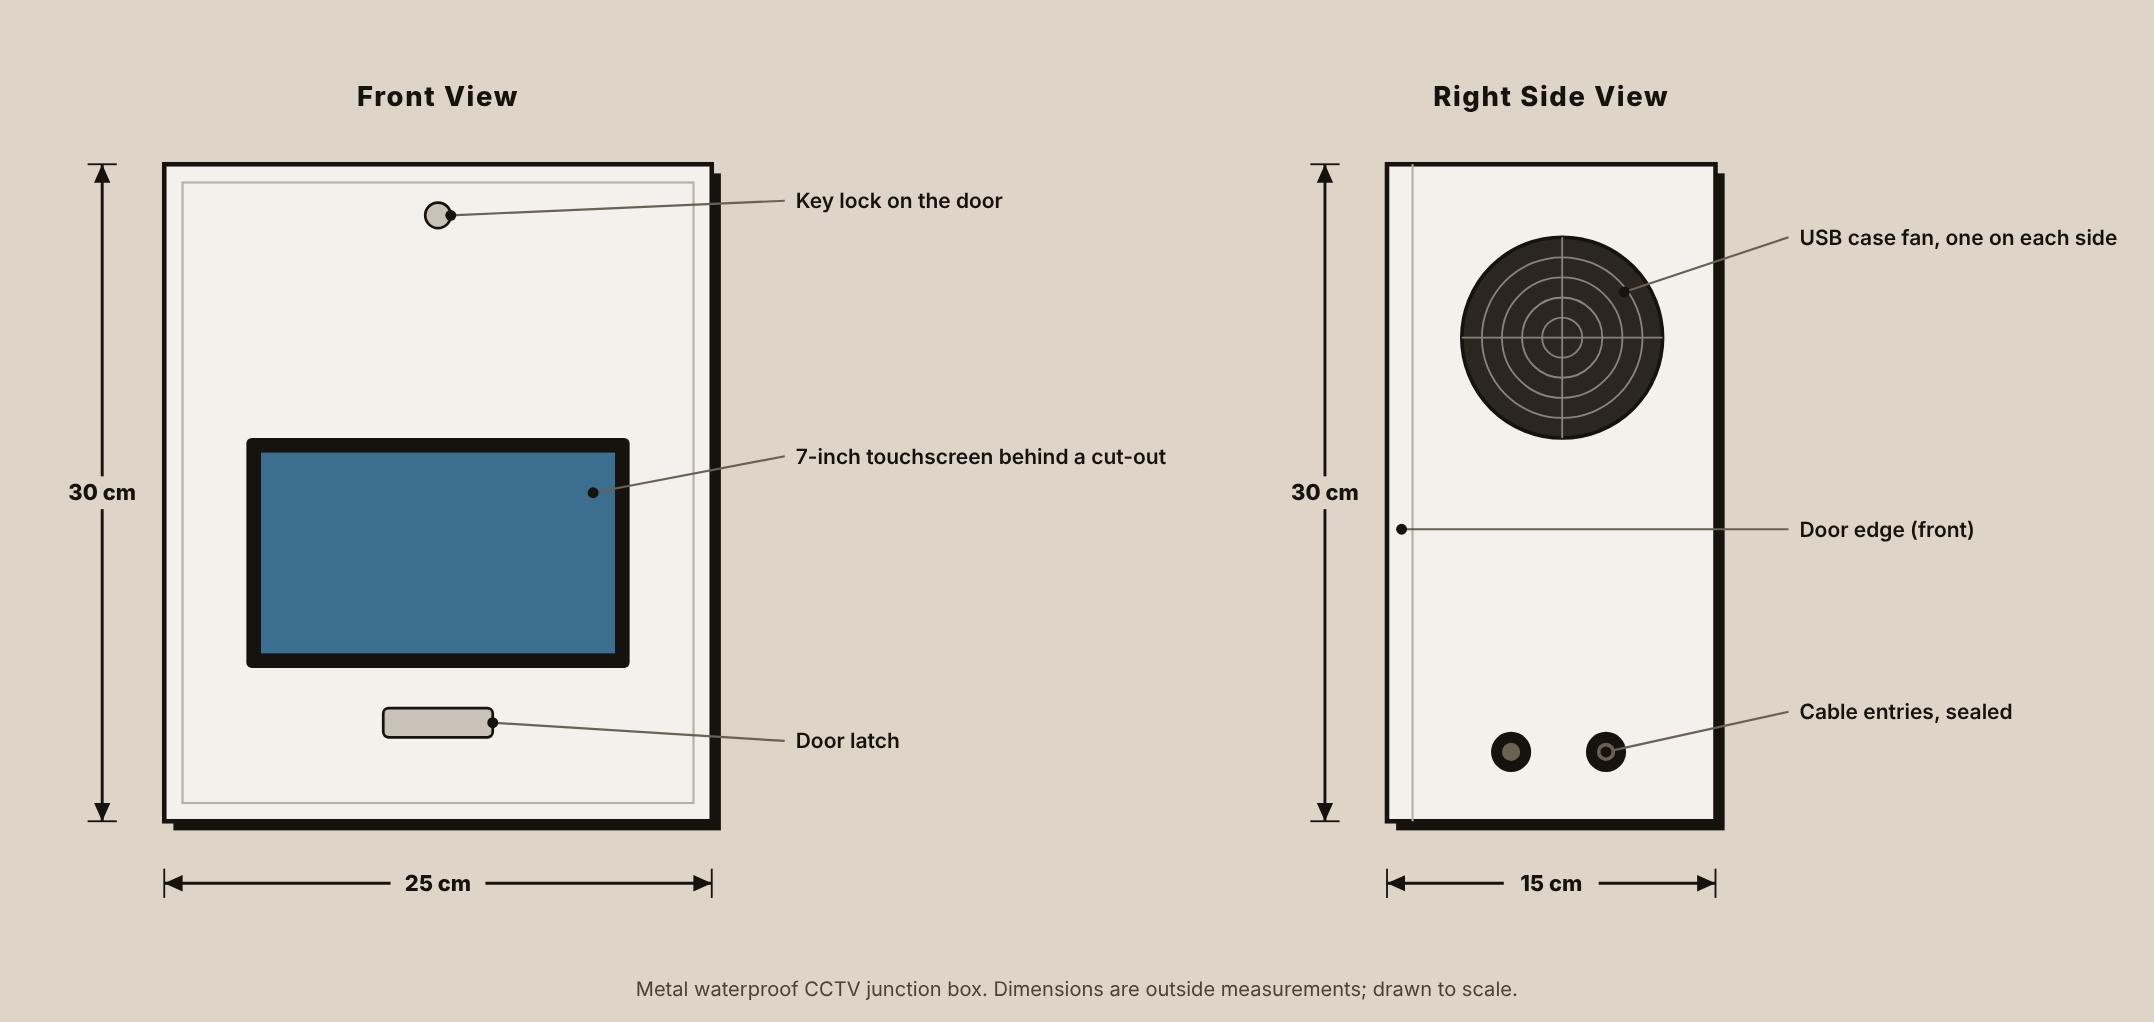
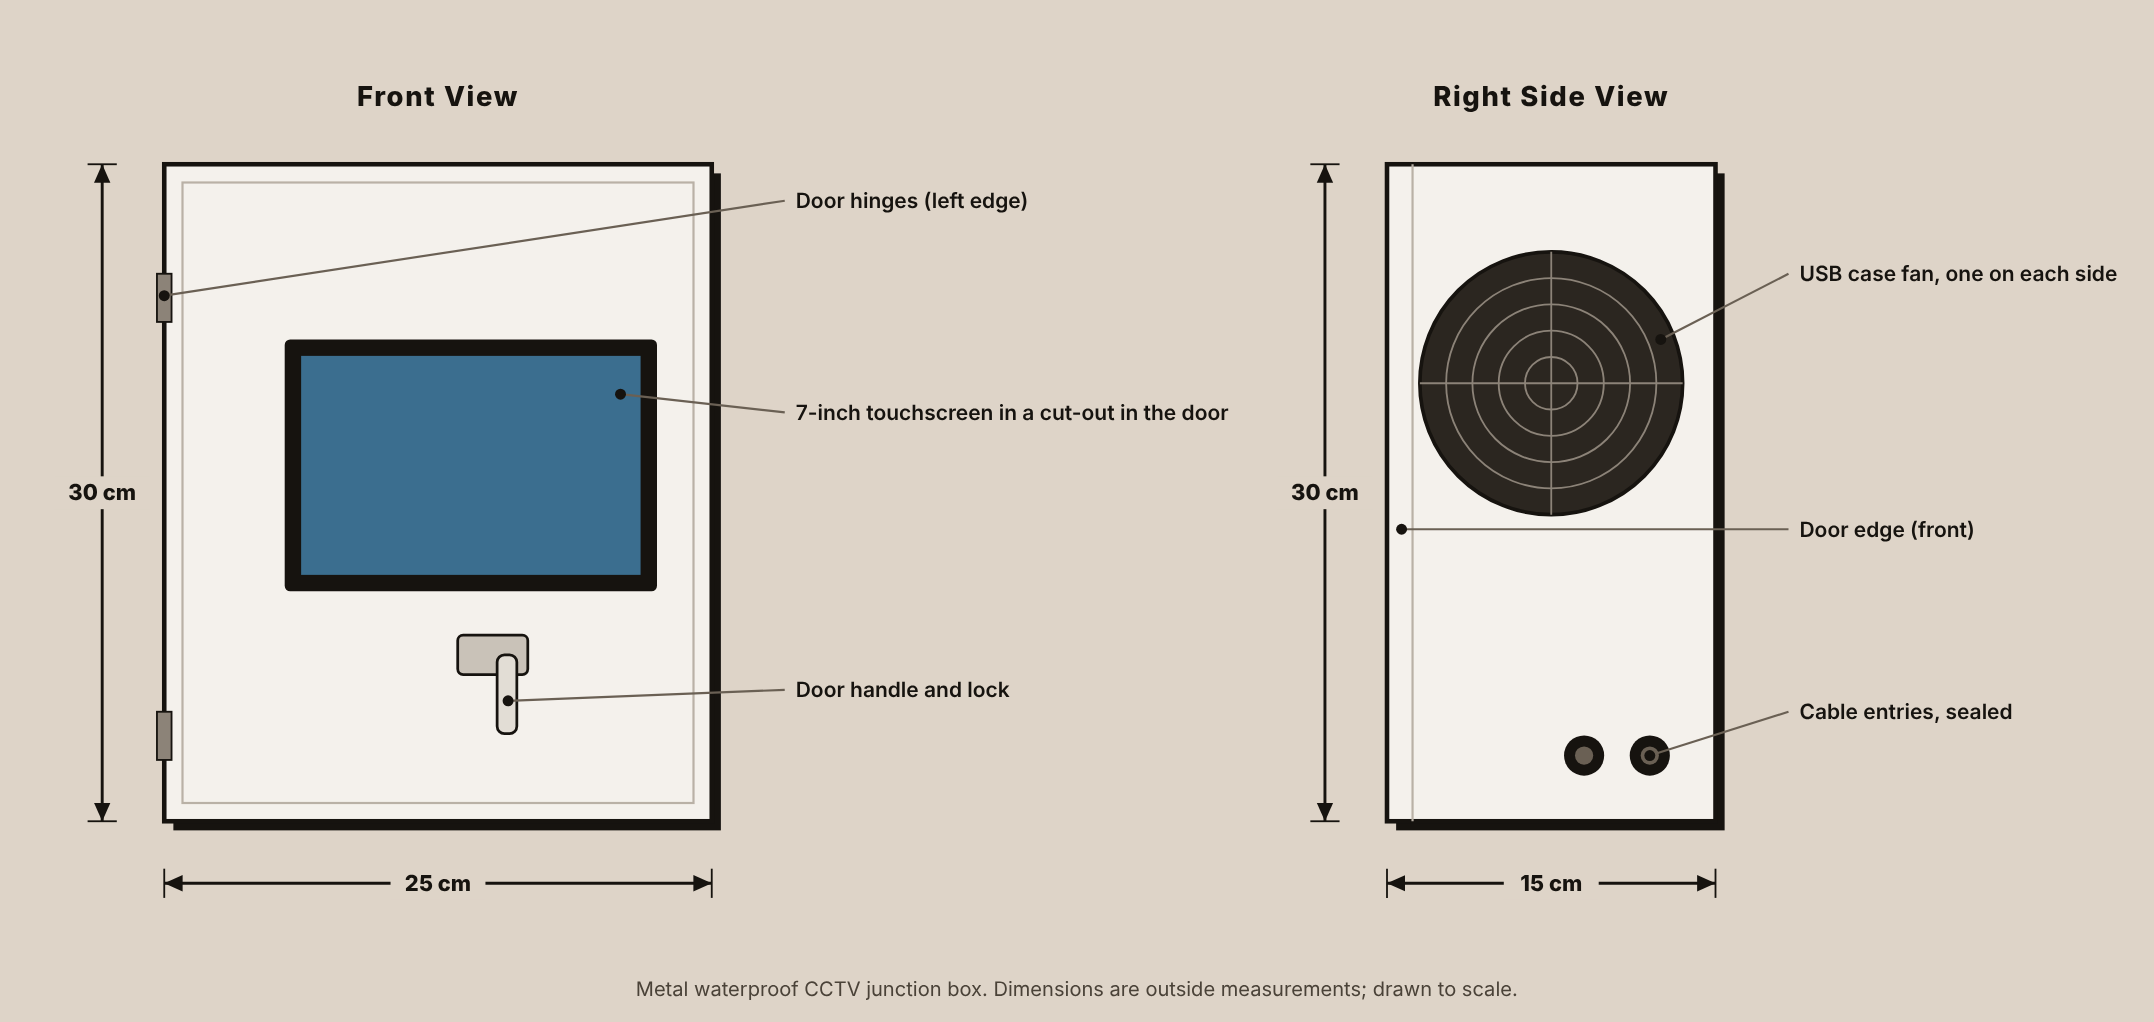
v19 build: casing photo, corrected enclosure drawing, straightened permit pages

diff --git a/Documents/Figures/GarbageGuard_Enclosure_Drawing.html b/Documents/Figures/GarbageGuard_Enclosure_Drawing.html
@@ -12,42 +12,44 @@
 <rect x="95" y="95" width="300" height="360" fill="#16130F"/>
 <rect x="90" y="90" width="300" height="360" fill="#F4F1EC" stroke="#16130F" stroke-width="2.5"/>
 <rect x="100" y="100" width="280" height="340" fill="none" stroke="#B9B1A6" stroke-width="1.2"/>
-<rect x="135.0" y="240" width="210.0" height="126.0" rx="3" fill="#16130F"/><rect x="143.0" y="248" width="194.0" height="110.0" fill="#3B6E8F"/>
-<rect x="210.0" y="388.0" width="60" height="16" rx="3" fill="#C9C2B8" stroke="#16130F" stroke-width="1.5"/>
-<circle cx="240.0" cy="118" r="7" fill="#C9C2B8" stroke="#16130F" stroke-width="1.5"/>
+<rect x="156.0" y="186" width="204" height="138.0" rx="3" fill="#16130F"/><rect x="165.0" y="195" width="186" height="120.0" fill="#3B6E8F"/>
+<rect x="250.8" y="348.0" width="38.400000000000006" height="21.6" rx="3" fill="#C9C2B8" stroke="#16130F" stroke-width="1.5"/>
+<rect x="272.4" y="358.8" width="10.8" height="43.2" rx="4" fill="#E2DDD5" stroke="#16130F" stroke-width="1.5"/>
+<rect x="86" y="150" width="8" height="26.400000000000002" fill="#8C8378" stroke="#16130F" stroke-width="1"/>
+<rect x="86" y="390" width="8" height="26.400000000000002" fill="#8C8378" stroke="#16130F" stroke-width="1"/>
 <line x1="90" y1="484" x2="390" y2="484" stroke="#16130F" stroke-width="1.6" marker-start="url(#a)" marker-end="url(#a)"/>
 <line x1="90" y1="476" x2="90" y2="492" stroke="#16130F" stroke-width="1"/><line x1="390" y1="476" x2="390" y2="492" stroke="#16130F" stroke-width="1"/>
 <rect x="214.0" y="475" width="52" height="18" fill="#DED4C8"/><text x="240.0" y="488" class="dm">25 cm</text>
 <line x1="56" y1="90" x2="56" y2="450" stroke="#16130F" stroke-width="1.6" marker-start="url(#a)" marker-end="url(#a)"/>
 <line x1="48" y1="90" x2="64" y2="90" stroke="#16130F" stroke-width="1"/><line x1="48" y1="450" x2="64" y2="450" stroke="#16130F" stroke-width="1"/>
 <rect x="30" y="261.0" width="52" height="18" fill="#DED4C8"/><text x="56" y="274.0" class="dm">30 cm</text>
-<line x1="247.0" y1="118" x2="430" y2="110" stroke="#6A6054" stroke-width="1.2"/><circle cx="247.0" cy="118" r="3" fill="#16130F"/>
-<text x="436" y="114" class="co" text-anchor="start">Key lock on the door</text>
-<line x1="325.0" y1="270" x2="430" y2="250" stroke="#6A6054" stroke-width="1.2"/><circle cx="325.0" cy="270" r="3" fill="#16130F"/>
-<text x="436" y="254" class="co" text-anchor="start">7-inch touchscreen behind a cut-out</text>
-<line x1="270.0" y1="396.0" x2="430" y2="406.0" stroke="#6A6054" stroke-width="1.2"/><circle cx="270.0" cy="396.0" r="3" fill="#16130F"/>
-<text x="436" y="410.0" class="co" text-anchor="start">Door latch</text>
+<line x1="90" y1="162" x2="430" y2="110" stroke="#6A6054" stroke-width="1.2"/><circle cx="90" cy="162" r="3" fill="#16130F"/>
+<text x="436" y="114" class="co" text-anchor="start">Door hinges (left edge)</text>
+<line x1="340.0" y1="216" x2="430" y2="226" stroke="#6A6054" stroke-width="1.2"/><circle cx="340.0" cy="216" r="3" fill="#16130F"/>
+<text x="436" y="230" class="co" text-anchor="start">7-inch touchscreen in a cut-out in the door</text>
+<line x1="278.4" y1="384.0" x2="430" y2="378.0" stroke="#6A6054" stroke-width="1.2"/><circle cx="278.4" cy="384.0" r="3" fill="#16130F"/>
+<text x="436" y="382.0" class="co" text-anchor="start">Door handle and lock</text>
 <text x="850.0" y="58" class="vt">Right Side View</text>
 <rect x="765" y="95" width="180" height="360" fill="#16130F"/>
 <rect x="760" y="90" width="180" height="360" fill="#F4F1EC" stroke="#16130F" stroke-width="2.5"/>
 <line x1="774" y1="90" x2="774" y2="450" stroke="#B9B1A6" stroke-width="1.2"/>
-<circle cx="856.0" cy="185" r="55" fill="#2B2620" stroke="#16130F" stroke-width="2"/>
-<circle cx="856.0" cy="185" r="11.0" fill="none" stroke="#8C8378" stroke-width="1"/>
-<circle cx="856.0" cy="185" r="22.0" fill="none" stroke="#8C8378" stroke-width="1"/>
-<circle cx="856.0" cy="185" r="33.0" fill="none" stroke="#8C8378" stroke-width="1"/>
-<circle cx="856.0" cy="185" r="44.0" fill="none" stroke="#8C8378" stroke-width="1"/>
-<line x1="801.0" y1="185" x2="911.0" y2="185" stroke="#8C8378"/><line x1="856.0" y1="130" x2="856.0" y2="240" stroke="#8C8378"/>
-<circle cx="828.0" cy="412" r="11" fill="#16130F"/><circle cx="828.0" cy="412" r="5" fill="#6A6054"/>
-<circle cx="880.0" cy="412" r="11" fill="#16130F"/><circle cx="880.0" cy="412" r="5" fill="#6A6054"/>
+<circle cx="850.0" cy="210" r="72" fill="#2B2620" stroke="#16130F" stroke-width="2"/>
+<circle cx="850.0" cy="210" r="14.4" fill="none" stroke="#8C8378" stroke-width="1"/>
+<circle cx="850.0" cy="210" r="28.8" fill="none" stroke="#8C8378" stroke-width="1"/>
+<circle cx="850.0" cy="210" r="43.2" fill="none" stroke="#8C8378" stroke-width="1"/>
+<circle cx="850.0" cy="210" r="57.6" fill="none" stroke="#8C8378" stroke-width="1"/>
+<line x1="778.0" y1="210" x2="922.0" y2="210" stroke="#8C8378"/><line x1="850.0" y1="138" x2="850.0" y2="282" stroke="#8C8378"/>
+<circle cx="868" cy="414" r="11" fill="#16130F"/><circle cx="868" cy="414" r="5" fill="#6A6054"/>
+<circle cx="904" cy="414" r="11" fill="#16130F"/><circle cx="904" cy="414" r="5" fill="#6A6054"/>
 <line x1="760" y1="484" x2="940" y2="484" stroke="#16130F" stroke-width="1.6" marker-start="url(#a)" marker-end="url(#a)"/>
 <line x1="760" y1="476" x2="760" y2="492" stroke="#16130F" stroke-width="1"/><line x1="940" y1="476" x2="940" y2="492" stroke="#16130F" stroke-width="1"/>
 <rect x="824.0" y="475" width="52" height="18" fill="#DED4C8"/><text x="850.0" y="488" class="dm">15 cm</text>
 <line x1="726" y1="90" x2="726" y2="450" stroke="#16130F" stroke-width="1.6" marker-start="url(#a)" marker-end="url(#a)"/>
 <line x1="718" y1="90" x2="734" y2="90" stroke="#16130F" stroke-width="1"/><line x1="718" y1="450" x2="734" y2="450" stroke="#16130F" stroke-width="1"/>
 <rect x="700" y="261.0" width="52" height="18" fill="#DED4C8"/><text x="726" y="274.0" class="dm">30 cm</text>
-<line x1="890.0" y1="160" x2="980" y2="130" stroke="#6A6054" stroke-width="1.2"/><circle cx="890.0" cy="160" r="3" fill="#16130F"/>
-<text x="986" y="134" class="co" text-anchor="start">USB case fan, one on each side</text>
-<line x1="880.0" y1="412" x2="980" y2="390" stroke="#6A6054" stroke-width="1.2"/><circle cx="880.0" cy="412" r="3" fill="#16130F"/>
+<line x1="910.0" y1="186" x2="980" y2="150" stroke="#6A6054" stroke-width="1.2"/><circle cx="910.0" cy="186" r="3" fill="#16130F"/>
+<text x="986" y="154" class="co" text-anchor="start">USB case fan, one on each side</text>
+<line x1="904" y1="414" x2="980" y2="390" stroke="#6A6054" stroke-width="1.2"/><circle cx="904" cy="414" r="3" fill="#16130F"/>
 <text x="986" y="394" class="co" text-anchor="start">Cable entries, sealed</text>
 <line x1="768" y1="290" x2="980" y2="290" stroke="#6A6054" stroke-width="1.2"/><circle cx="768" cy="290" r="3" fill="#16130F"/>
 <text x="986" y="294" class="co" text-anchor="start">Door edge (front)</text>

diff --git a/Documents/v19 build/build_v19.py b/Documents/v19 build/build_v19.py
@@ -1,0 +1,238 @@
+"""Build Garbage-Guard v19 from v18: Figures 41-43 replaced by the unmodified casing photo
+and the enclosure drawing, old Figure 47 removed, Figures 44-46 renumbered 43-45,
+straightened Testing Permit pages.
+
+python build_v19.py IN.docx OUT.docx ASSET_DIR
+ASSET_DIR holds: junction_box.png, enclosure.png, permit_p1.jpg, permit_p2.jpg
+"""
+import copy
+import os
+import re
+import sys
+
+import docx
+from docx.oxml.ns import qn
+from PIL import Image
+
+SRC, OUT, ASSETS = sys.argv[1], sys.argv[2], sys.argv[3]
+A = lambda n: os.path.join(ASSETS, n)
+
+doc = docx.Document(SRC)
+body = doc.element.body
+W14 = "http://schemas.microsoft.com/office/word/2010/wordml"
+
+
+def paras():
+    return doc.paragraphs
+
+
+def find(text, start=0, exact=False):
+    for i, p in enumerate(paras()):
+        if i < start:
+            continue
+        t = p.text.strip()
+        if (t == text) if exact else t.startswith(text):
+            return i
+    raise SystemExit(f"not found: {text!r}")
+
+
+def clone(p):
+    e = copy.deepcopy(getattr(p, "_p", p))
+    for el in e.iter():
+        for k in list(el.attrib):
+            if k in (f"{{{W14}}}paraId", f"{{{W14}}}textId"):
+                del el.attrib[k]
+    return e
+
+
+def set_runs(pel, parts):
+    """parts: list of (text, italic) ; keeps pPr, drops everything else."""
+    for ch in list(pel):
+        if ch.tag != qn("w:pPr"):
+            pel.remove(ch)
+    for text, italic in parts:
+        r = pel.makeelement(qn("w:r"), {})
+        if italic:
+            rpr = r.makeelement(qn("w:rPr"), {})
+            rpr.append(rpr.makeelement(qn("w:i"), {}))
+            rpr.append(rpr.makeelement(qn("w:iCs"), {}))
+            r.append(rpr)
+        t = r.makeelement(qn("w:t"), {})
+        t.text = text
+        t.set("{http://www.w3.org/XML/1998/namespace}space", "preserve")
+        r.append(t)
+        pel.append(r)
+    return pel
+
+
+def new_para(template_idx, parts):
+    return set_runs(clone(paras()[template_idx]), parts)
+
+
+def insert_after(anchor_el, els):
+    for e in els:
+        anchor_el.addnext(e)
+        anchor_el = e
+    return anchor_el
+
+
+def blip_rid(pel):
+    b = pel.find(".//" + qn("a:blip"))
+    return b, b.get(qn("r:embed"))
+
+
+def swap_image(pel, path, keep_width=True):
+    """Point the picture in pel at a new image part; keep width, fix height."""
+    blip, _ = blip_rid(pel)
+    rid, _img = doc.part.get_or_add_image(path)
+    blip.set(qn("r:embed"), rid)
+    w, h = Image.open(path).size
+    ext = pel.find(".//" + qn("wp:extent"))
+    cx = int(ext.get("cx"))
+    cy = int(cx * h / w)
+    ext.set("cy", str(cy))
+    for x in pel.iter(qn("a:ext")):
+        if x.getparent().tag == qn("a:xfrm"):
+            x.set("cx", str(cx))
+            x.set("cy", str(cy))
+
+
+def set_width(pel, cx):
+    ext = pel.find(".//" + qn("wp:extent"))
+    ratio = int(ext.get("cy")) / int(ext.get("cx"))
+    ext.set("cx", str(int(cx)))
+    ext.set("cy", str(int(cx * ratio)))
+    for x in pel.iter(qn("a:ext")):
+        if x.getparent().tag == qn("a:xfrm"):
+            x.set("cx", ext.get("cx"))
+            x.set("cy", ext.get("cy"))
+
+
+def unique_docpr(pel, base):
+    for i, d in enumerate(pel.iter(qn("wp:docPr"))):
+        d.set("id", str(base + i))
+        d.set("name", f"Picture {base + i}")
+
+
+
+# ------------------------------------------- Figures 41 to 43 become casing photo + drawing
+i_iv = find("IV. RESULTS AND DISCUSSION", exact=True)
+i41 = find("Figure 41", exact=True)
+assert paras()[i41 + 3].text.strip() == "Figure 42" and paras()[i41 + 6].text.strip() == "Figure 43"
+
+
+def set_title(idx, title):
+    ts = list(paras()[idx]._p.iter(qn("w:t")))
+    for t in ts:
+        t.text = ""
+    ts[0].text = title
+
+
+set_title(i41 + 1, "Metal Waterproof Junction Box Used for the Enclosure, Before Modification")
+swap_image(paras()[i41 + 2]._p, A("junction_box.png"))
+set_title(i41 + 4, "Front and Side Views of the Garbage-Guard Enclosure with Dimensions")
+swap_image(paras()[i41 + 5]._p, A("enclosure.png"))
+set_width(paras()[i41 + 5]._p, 5400000)
+img41 = paras()[i41 + 2]._p
+img42 = paras()[i41 + 5]._p
+cap43 = [paras()[i41 + 6]._p, paras()[i41 + 7]._p, paras()[i41 + 8]._p]
+i_note_tpl = find("Note. Image from The Pi Hut (n.d.-b).")
+i_body_tpl = i41 + 9  # "The electronics are housed ..."
+assert paras()[i_body_tpl].text.startswith("The electronics are housed")
+note41 = new_para(i_note_tpl, [("Note.", True), (" Product image from the seller's listing. Source to be confirmed.", False)])
+for r in note41.findall(qn("w:r")):
+    rpr = r.find(qn("w:rPr"))
+    if rpr is None:
+        rpr = r.makeelement(qn("w:rPr"), {}); r.insert(0, rpr)
+    rpr.append(rpr.makeelement(qn("w:highlight"), {qn("w:val"): "yellow"}))
+F41 = ("Figure 41 shows the junction box as it was bought, before it was cut for the touchscreen, "
+       "the fans and the cable entries. It is a metal box with a hinged door, a rubber seal around "
+       "the door, a grounding post and a handle lock. The seller lists it as IP65. That rating "
+       "applies to the unmodified box only: once the cut-outs for the screen, the fans and the "
+       "cables were made, the enclosure no longer meets it, which is why the unit is kept under "
+       "cover.")
+F42 = ("Figure 42 gives the outside dimensions of the enclosure after it was modified, in front "
+       "and side view. The 7-inch touchscreen sits in a cut-out in the door, so the dashboard can "
+       "be read and touched without opening the box, and the door handle with its lock is below "
+       "the screen. The door is hinged on its left edge. A USB case fan is fitted on each side "
+       "wall, and the cable entries for the mains lead and the camera cables sit low on the right "
+       "side and are sealed with rubber sealant. The camera is not drawn. It is mounted outside, "
+       "apart from the box, and joined to it by its cables only.")
+p41 = new_para(i_body_tpl + 1, [(F41, False)])
+p42 = new_para(i_body_tpl + 1, [(F42, False)])
+insert_after(img41, [note41, p41])
+img42.addnext(p42)
+for e in cap43:
+    e.getparent().remove(e)
+
+# ------------------------------------------- drop old Figure 47 from 3.5
+i47 = find("Figure 47", exact=True)
+i47e = find("Figure 47 gives the outside dimensions", start=i47)
+assert i47e == i47 + 3, "Figure 47 block layout changed"
+for e in [paras()[i47 + k]._p for k in range(4)]:
+    e.getparent().remove(e)
+
+# ------------------------------------------- renumber 44-46 -> 43-45 in the main text
+MAP = {"44": "43", "45": "44", "46": "45"}
+i_app = find("IX. APPENDICES", exact=True)
+stop = paras()[i_app]._p
+pat = re.compile(r"(Figures? )(\d+)((?: and )(\d+))?")
+
+
+def sub(m):
+    a = MAP.get(m.group(2), m.group(2))
+    if m.group(3):
+        b = MAP.get(m.group(4), m.group(4))
+        return f"{m.group(1)}{a} and {b}"
+    return f"{m.group(1)}{a}"
+
+
+for el in body.iterchildren():
+    if el is stop:
+        break
+    if el.tag != qn("w:p"):
+        continue
+    for t in el.iter(qn("w:t")):
+        if t.text and "Figure" in t.text:
+            t.text = pat.sub(sub, t.text)
+
+for bs in body.iter(qn("w:bookmarkStart")):
+    n = bs.get(qn("w:name"))
+    if n in ("_FigMk44", "_FigMk45", "_FigMk46"):
+        bs.set(qn("w:name"), "_FigMk" + MAP[n[-2:]])
+
+# List of Figures rows
+rows = {}
+for tr in body.iter(qn("w:tr")):
+    h = tr.find(".//" + qn("w:hyperlink"))
+    if h is not None and (h.get(qn("w:anchor")) or "").startswith("_FigMk"):
+        rows[h.get(qn("w:anchor"))] = tr
+for k in ("_FigMk43", "_FigMk47"):
+    rows[k].getparent().remove(rows[k])
+for old in ("44", "45", "46"):
+    tr = rows["_FigMk" + old]
+    new = MAP[old]
+    ts = list(tr.iter(qn("w:t")))
+    ts[0].text = new
+    tr.find(".//" + qn("w:hyperlink")).set(qn("w:anchor"), "_FigMk" + new)
+    for it in tr.iter(qn("w:instrText")):
+        it.text = it.text.replace("_FigMk" + old, "_FigMk" + new)
+for k, title in (("_FigMk41", "Metal Waterproof Junction Box Used for the Enclosure, Before Modification"),
+                 ("_FigMk42", "Front and Side Views of the Garbage-Guard Enclosure with Dimensions")):
+    ts = list(rows[k].iter(qn("w:t")))
+    ts[1].text = title
+    for t in ts[2:-1]:
+        if t.getparent().getparent().tag == qn("w:hyperlink"):
+            t.text = ""
+
+# ------------------------------------------- Appendix C: straightened permit pages
+i_c = find("Testing Permit", start=i_app, exact=True)
+pics = [p._p for p in paras()[i_c:i_c + 12] if p._p.find(".//" + qn("a:blip")) is not None]
+assert len(pics) >= 2
+for pel, name in ((pics[0], "permit_p1.jpg"), (pics[1], "permit_p2.jpg")):
+    blip, _ = blip_rid(pel)
+    rid, _ = doc.part.get_or_add_image(A(name))
+    blip.set(qn("r:embed"), rid)
+
+doc.save(OUT)
+print("saved", OUT)
